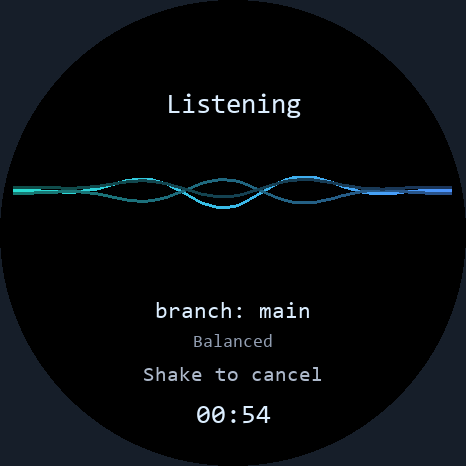
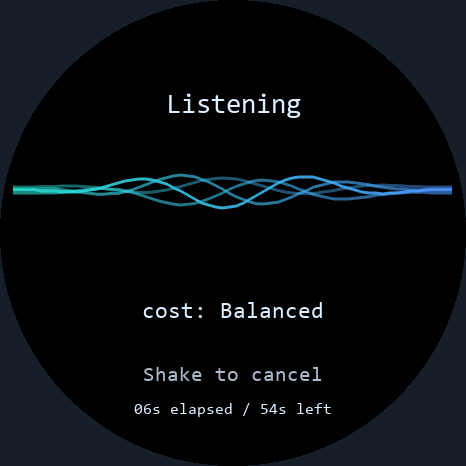
Compose four antialiased voice waves and cycle complete session identity

diff --git a/components/CODY_companion/src/runtime/CODY_companion.cpp b/components/CODY_companion/src/runtime/CODY_companion.cpp
@@ -31,6 +31,7 @@
 #include <atomic>
 #include <cstdint>
 #include <cstdio>
+#include <cstdlib>
 #include <cstring>
 #include <iterator>
 #include <limits>
@@ -2680,8 +2681,21 @@ esp_err_t draw_branding_rows(uint16_t frame_index)
 // Display-owned bounded projection and prepared glyphs never enter nested frame stacks.
 LUNASHELL::VoiceSnapshot s_voice_input_view{};
 CODY2D::TextLine s_voice_title{}, s_voice_shake{}, s_voice_timer{};
-char s_voice_countdown[6]{};
-CODY::ActivityIdentityState s_voice_identity{};
+char s_voice_countdown[32]{};
+enum class VoiceCaptionKind : uint8_t { Model, Cost, Effort, Branch, Project };
+struct VoiceCaption {
+    VoiceCaptionKind kind;
+    char text[144]{};
+    CODY2D::TextLine line{};
+    uint16_t length = 0;
+    uint16_t width = 0;
+    uint16_t color = 0xF7BE;
+};
+VoiceCaption s_voice_captions[] = {{VoiceCaptionKind::Model}, {VoiceCaptionKind::Cost},
+    {VoiceCaptionKind::Effort}, {VoiceCaptionKind::Branch}, {VoiceCaptionKind::Project}};
+int64_t s_voice_carousel_started_us = 0;
+CODY2D::TextLine s_voice_carousel_line{};
+static_assert(sizeof(s_voice_captions) <= 1280, "Voice carousel storage belongs to the display owner, never its frame stack");
 LUNASHELL::CodexTechnicalObservation s_voice_metadata{};
 CODY::ResponseInputs s_voice_motion{};
 bool s_voice_view_visible = false;
@@ -2708,9 +2722,15 @@ esp_err_t prepare_voice_caption(const char *text, int16_t top, uint16_t color, C
 {
     const auto &font = CODY::SceneData::body_font;
     const uint16_t length = static_cast<uint16_t>(std::strlen(text));
-    if (length == 0 || font.height > 28) return ESP_ERR_INVALID_SIZE;
+    if (length == 0 || font.height > 28) {
+        ESP_LOGE(kTag, "Voice caption rejected: length=%u font_height=%u", unsigned(length), unsigned(font.height));
+        return ESP_ERR_INVALID_SIZE;
+    }
     const uint16_t width = static_cast<uint16_t>((length - 1U) * font.advance + font.width);
-    if (width > 320) return ESP_ERR_INVALID_SIZE;
+    if (width > 320) {
+        ESP_LOGE(kTag, "Voice caption width rejected: width=%u", unsigned(width));
+        return ESP_ERR_INVALID_SIZE;
+    }
     return CODY2D::prepare_text_line(font, {text, length},
         {static_cast<int16_t>((466 - width) / 2), top}, color, line);
 }
@@ -2721,24 +2741,40 @@ esp_err_t prepare_voice_caption(const char *text, int16_t top, uint16_t color, C
 // Exception: Returns the original native raster failure.
 esp_err_t draw_voice_ribbon(CODY2D::Surface strip, uint16_t row, size_t pose)
 {
+    const esp_err_t surface_error = CODY2D::validate_surface(strip);
+    if (surface_error != ESP_OK) return surface_error;
+    if (strip.width != kPanelWidth || row + strip.height > kPanelHeight || pose >= CODY::kVoiceWaveformFrameCount) {
+        ESP_LOGE(kTag, "Voice ribbon bounds rejected: width=%u row=%u height=%u pose=%u",
+            unsigned(strip.width), unsigned(row), unsigned(strip.height), unsigned(pose));
+        return ESP_ERR_INVALID_ARG;
+    }
     if (row >= 210 || row + strip.height <= 170) return ESP_OK;
     for (uint16_t x = 13; x < 453; ++x) {
         const uint32_t position = (x - 13U) * 63U;
         const size_t first = std::min<size_t>(62, position / 439U);
         const int fraction = static_cast<int>(position - first * 439U);
-        const int value = CODY::kVoiceWaveform[pose][first] +
-            (CODY::kVoiceWaveform[pose][first + 1] - CODY::kVoiceWaveform[pose][first]) * fraction / 439;
         const uint16_t color = CODY2D::blend_rgb565(0x9B1F, 0x2E7F,
             static_cast<uint8_t>((x - 13U) * 255U / 439U));
-        for (int layer = 0; layer < 3; ++layer) {
-            const int offset = layer == 0 ? value : layer == 1 ? -value * 3 / 4 + 3 : value / 2 - 3;
-            const int top = std::max<int>(190 + offset - 1, row);
-            const int bottom = std::min<int>(190 + offset + 2, row + strip.height);
-            if (top >= bottom) continue;
-            const uint16_t foreground = layer == 0 ? color : CODY2D::fade_rgb565_to_black(color, layer == 1 ? 150 : 90);
-            const esp_err_t error = CODY2D::fill_rect(strip, {x, static_cast<uint16_t>(top - row),
-                1, static_cast<uint16_t>(bottom - top)}, foreground);
-            if (error != ESP_OK) return error;
+        constexpr int scale[] = {256, 192, 128, 224};
+        constexpr int shift[] = {0, 3, -3, -1};
+        constexpr uint8_t strength[] = {230, 155, 120, 170};
+        for (size_t layer = 0; layer < 4; ++layer) {
+            const size_t wave_pose = (pose + layer * 4) % CODY::kVoiceWaveformFrameCount;
+            // Q8 interpolation gives subpixel edge coverage without floats, trigonometry or supersampled buffers.
+            const int value_q8 = int(CODY::kVoiceWaveform[wave_pose][first]) * 256 +
+                (CODY::kVoiceWaveform[wave_pose][first + 1] - CODY::kVoiceWaveform[wave_pose][first]) * fraction * 256 / 439;
+            const int center_q8 = (190 + shift[layer]) * 256 + value_q8 * scale[layer] / 256;
+            for (uint16_t offset = 0; offset < strip.height; ++offset) {
+                const int y = row + offset;
+                if (y < 170 || y >= 210) continue;
+                const int coverage = std::clamp(512 - std::abs(y * 256 + 128 - center_q8), 0, 256);
+                if (coverage == 0) continue;
+                const size_t pixel = offset * strip.stride + x;
+                const uint16_t background = CODY2D::rgb565_stored_to_native(strip.pixels[pixel], strip.byte_order);
+                const uint8_t opacity = static_cast<uint8_t>(coverage * strength[layer] / 256);
+                const uint16_t blended = CODY2D::blend_rgb565(color, background, opacity);
+                strip.pixels[pixel] = CODY2D::rgb565_native_to_stored(blended, strip.byte_order);
+            }
         }
     }
     return ESP_OK;
@@ -2756,20 +2792,56 @@ esp_err_t prepare_voice_identity()
         activity.data_valid && !activity.data_stale;
     const char *project = current ? activity.project : "";
     const char *branch = current ? activity.branch : "";
-    const char *previous_branch = s_voice_identity.branch[0] == '\0' ? "" : s_voice_identity.branch + 8;
     const int64_t now = esp_timer_get_time();
-    if (std::strcmp(s_voice_identity.project, project) != 0 || std::strcmp(previous_branch, branch) != 0 ||
-        !s_voice_view_visible || s_voice_view_started_at_us != s_voice_input_view.input.started_at_us) {
-        error = CODY::prepare_activity_identity(s_voice_identity, CODY::SceneData::body_font, project, branch, now);
-        if (error != ESP_OK) return error;
-    }
     const auto model_cost = CODY::observed_model_cost(link, s_voice_metadata.technical);
-    bool changed = false;
-    error = CODY::set_activity_model_cost(s_voice_identity, CODY::SceneData::body_font,
-        model_cost.model, model_cost.band, now, changed);
-    if (error != ESP_OK) return error;
-    // The voice countdown has its own meaning; no work-duration estimate is substituted.
-    return CODY::advance_activity_identity(s_voice_identity, CODY::SceneData::body_font, now, false, -1, changed);
+    const auto &technical = s_voice_metadata.technical;
+    const bool technical_current = current && technical.data_valid && !technical.data_stale && technical.chat_id[0] != '\0' &&
+        technical.revision == activity.revision && std::strcmp(technical.chat_id, activity.chat_id) == 0;
+    const char *effort = technical_current && technical.effort_valid && !technical.effort_stale ? technical.effort : "";
+    bool changed = !s_voice_view_visible || s_voice_view_started_at_us != s_voice_input_view.input.started_at_us;
+    size_t count = 0;
+    int64_t total_us = 0;
+    for (auto &caption : s_voice_captions) {
+        const char *source = "";
+        const char *prefix = "";
+        switch (caption.kind) {
+        case VoiceCaptionKind::Model: source = model_cost.model; prefix = "model: "; break;
+        case VoiceCaptionKind::Cost:
+            source = model_cost.band == LUNASHELL::CodexCostBand::Unknown ? "" : CODY::cost_band_text(model_cost.band);
+            prefix = "cost: "; break;
+        case VoiceCaptionKind::Effort: source = effort; prefix = "effort: "; break;
+        case VoiceCaptionKind::Branch: source = branch; prefix = "branch: "; break;
+        case VoiceCaptionKind::Project: source = project; prefix = ""; break;
+        }
+        const char *old_source = caption.length == 0 ? "" : caption.text + std::strlen(prefix);
+        changed = changed || std::strcmp(old_source, source) != 0;
+        caption.color = caption.kind == VoiceCaptionKind::Cost ? CODY::cost_band_color(model_cost.band) : 0xF7BE;
+        error = CODY::prepare_activity_identity_caption(CODY::SceneData::body_font, source, prefix,
+            caption.text, caption.line, caption.color, caption.length, caption.width, 128);
+        if (error != ESP_OK) return error;
+        if (caption.length == 0) continue;
+        ++count;
+        // Long labels finish their measured scroll before the fade advances.
+        const uint16_t overflow = caption.width > 320 ? caption.width - 320 : 0;
+        total_us += 3500000 + int64_t(overflow) * 35000 + 500000;
+    }
+    if (changed || s_voice_carousel_started_us == 0) s_voice_carousel_started_us = now;
+    s_voice_carousel_line = {};
+    if (count == 0) return ESP_OK;
+    int64_t elapsed = (now - s_voice_carousel_started_us) % total_us;
+    for (auto &caption : s_voice_captions) {
+        if (caption.length == 0) continue;
+        const uint16_t overflow = caption.width > 320 ? caption.width - 320 : 0;
+        const int64_t hold = 3500000 + int64_t(overflow) * 35000;
+        if (elapsed >= hold + 500000) { elapsed -= hold + 500000; continue; }
+        uint8_t opacity = 255;
+        if (count > 1 && elapsed < 200000) opacity = static_cast<uint8_t>(elapsed * 255 / 200000);
+        if (count > 1 && elapsed > hold) opacity = static_cast<uint8_t>(std::max<int64_t>(0, 200000 - (elapsed - hold)) * 255 / 200000);
+        const uint16_t offset = static_cast<uint16_t>(std::min<int64_t>(overflow, std::max<int64_t>(0, elapsed - 1500000) / 35000));
+        return CODY::prepare_activity_identity_window(CODY::SceneData::body_font, caption.text,
+            caption.length, caption.width, offset, CODY2D::fade_rgb565_to_black(caption.color, opacity), s_voice_carousel_line);
+    }
+    return ESP_OK;
 }
 
 // No parameters: priority input uses a small ribbon, genuine identity carousel and countdown.
@@ -2787,10 +2859,11 @@ esp_err_t draw_voice_input_rows()
     error = prepare_voice_caption("Shake to cancel", 365, 0xAD75, s_voice_shake);
     if (error != ESP_OK) return error;
     const int64_t elapsed = std::max<int64_t>(0, esp_timer_get_time() - s_voice_input_view.input.started_at_us);
-    const uint32_t remaining = phase == Phase::Listening ? static_cast<uint32_t>(std::max<int64_t>(0, 60000000 - elapsed) + 999999) / 1000000U : 0;
-    const int count = std::snprintf(s_voice_countdown, sizeof(s_voice_countdown), "%02u:%02u",
-        static_cast<unsigned>(remaining / 60U), static_cast<unsigned>(remaining % 60U));
-    if (count != 5) return ESP_ERR_INVALID_SIZE;
+    const uint32_t used = std::min<uint32_t>(60, phase == Phase::Listening ?
+        static_cast<uint32_t>(elapsed / 1000000) : s_voice_input_view.input.captured_samples / 16000U);
+    const int count = std::snprintf(s_voice_countdown, sizeof(s_voice_countdown), "%02us elapsed / %02us left",
+        static_cast<unsigned>(used), static_cast<unsigned>(60U - used));
+    if (count <= 0 || count >= int(sizeof(s_voice_countdown))) return ESP_ERR_INVALID_SIZE;
     error = prepare_voice_caption(s_voice_countdown, 402, 0xF7BE, s_voice_timer);
     if (error != ESP_OK) return error;
     error = prepare_voice_identity();
@@ -2809,7 +2882,7 @@ esp_err_t draw_voice_input_rows()
     const size_t pose = static_cast<size_t>((esp_timer_get_time() / 125000) % CODY::kVoiceWaveformFrameCount);
     for (uint16_t row = 0; row < kPanelHeight;) {
         // First retirement clears the old route. Later frames transfer only the changing bands.
-        if (!full && !((row >= 170 && row < 210) || (row >= 300 && row < 358) || (row >= 402 && row < 430))) {
+        if (!full && !((row >= 170 && row < 210) || (row >= 300 && row < 328) || (row >= 402 && row < 430))) {
             row += 2;
             continue;
         }
@@ -2828,7 +2901,18 @@ esp_err_t draw_voice_input_rows()
         error = CODY2D::clear(strip, 0);
         if (error == ESP_OK) error = draw_voice_ribbon(strip, row, pose);
         if (error == ESP_OK) error = CODY2D::draw_text_rows(s_voice_title, s_voice_title.text.length, strip, row, 0);
-        if (error == ESP_OK) error = CODY::draw_activity_identity(s_voice_identity, strip, row, 0);
+        if (error == ESP_OK && s_voice_carousel_line.valid) {
+            const uint16_t top = std::max<uint16_t>(row, 300);
+            const uint16_t bottom = std::min<uint16_t>(row + rows, 328);
+            if (top < bottom) {
+                CODY2D::Surface clipped = strip;
+                clipped.pixels += (top - row) * strip.stride + 73;
+                clipped.pixel_capacity -= (top - row) * strip.stride + 73;
+                clipped.width = 320;
+                clipped.height = bottom - top;
+                error = CODY2D::draw_text_rows(s_voice_carousel_line, s_voice_carousel_line.text.length, clipped, top, 73);
+            }
+        }
         if (error == ESP_OK && cancellable) error = CODY2D::draw_text_rows(s_voice_shake, s_voice_shake.text.length, strip, row, 0);
         if (error == ESP_OK) error = CODY2D::draw_text_rows(s_voice_timer, s_voice_timer.text.length, strip, row, 0);
         if (error == ESP_OK) error = LUNASHELL_display_frame_submit_rgb565(0, row, 466, row + rows, storage);

diff --git a/scripts/generators/generate_cody_connection_atlas.py b/scripts/generators/generate_cody_connection_atlas.py
@@ -488,7 +488,7 @@ def technical_pdf(start_page):
         ),(153,262,WIDTH-84-415))
     add("A ten-second ring tolerates a stalled PC","160000 samples x 2 bytes = 320000 bytes PSRAM; metadata and transport buffers are additional",
         ("STAGE","DEVICE / PC OWNER","BOUNDARY"),(
-            ("Capture and display","Existing AFE enhanced mono 16 kHz PCM and VAD. Wake word or double tap requests Listening; capture begins with the next real AFE block, without wake-word cache or preroll.","Hide Cody. Show an illustrative 40-pixel synthetic wave across the available upper chord, a bottom countdown and the existing central fade carousel of genuine project/model/cost/branch data. No measured-waveform claim."),
+            ("Capture and display","Existing AFE enhanced mono 16 kHz PCM and VAD. Wake word or double tap requests Listening; capture begins with the next real AFE block, without wake-word cache or preroll.","Hide Cody. Synthetic wave: four phase-shifted colored curves in a 440 x 40 band; 16 poses at 8 FPS, Q8 antialiasing and alpha overlaps, no runtime trig or voice-amplitude tracking. One row cycles model -> cost band -> thinking effort -> branch -> project, skipping unavailable values with existing fades/scrolling. No fixed cost pill. Below: Shake to cancel, then elapsed and remaining seconds (60-second limit)."),
             ("Ring and sender","Every PCM block remains until a valid authenticated ACK arrives. One 480-sample, 960-byte DATA packet is in flight.","Ten seconds is the stalled-link budget. Overflow is an explicit failure; words are never overwritten. No SD or flash fallback. Capture ends after 1.2 seconds of speech silence or at the 60-second limit."),
             ("PC receiver / persistence","Freeze the exact genuine followed thread and turn at START; reject out-of-order PCM. Write a completed 16 kHz, 16-bit mono WAV under private runtime artifacts.","UDP reception and native input have separate workers. Limits: 4 captures/jobs, 64 records, 60 seconds of PCM. The 64 MiB/1024 WAV quota rejects new storage."),
             ("Pause / deliberate shake","A deliberate shake cancels voice capture; there is no voice Cancel button. Microphone pause stops active capture and transport. If END may have left, the canonical phase is Unconfirmed; otherwise Cancelled.","No automatic wake or restart. Wire CANCEL cannot revoke native submission already in flight; its eventual actual outcome remains visible."),
@@ -599,7 +599,7 @@ def main(argv=None):
         RevisionRecord("2026-10-12","Change","One canonical CCP communication reference",(
         "Unify the existing CCP Connection Atlas, former Service Atlas and legacy Codex Connection Atlas into coherent system, commissioning, wire/API, audio and evidence chapters. Keep the separate four-page A5 pairing quickstart as the nontechnical user guide. Preserve earlier meaningful decisions, original page/screen crosswalks and dated Errata, Addendum, Change and Security records.",
         "Current packet fields, order and ceilings; hook/technical projections; clock/name/debug/reset; MCP calls; and resource budgets are source-derived. Metadata remains authenticated plaintext. Audio is a separate AES-256-GCM source increment and does not strengthen six-character commissioning.",
-        "Voice documentation follows source version 0.6.5 and the 12 October UI decision: enhanced PCM from the next real AFE block after wake detection, a ten-second PSRAM ring, authenticated UDP 42119, frozen native thread/turn identity and localAudio input. The capture limit is 60 seconds; deliberate shake cancels, with no voice Cancel button. Cody is hidden behind the synthetic wave, countdown and genuine-data carousel. Native endpoint attachment, account/backend, dependencies, installation, cryptographic wire checks, device stack headroom and physical capture/delivery remain unverified. Whole native deadline: 15 seconds; uncertainty never becomes success.",),
+        "Voice documentation follows source version 0.6.5 and the 12 October UI decision: enhanced PCM from the next real AFE block after wake detection, a ten-second PSRAM ring, authenticated UDP 42119, frozen native thread/turn identity and localAudio input. Capture lasts at most 60 seconds; deliberate shake cancels without a voice Cancel button. Hide Cody. The upper synthetic wave is 40 pixels high. One central row cycles model, cost band, thinking effort, branch, then project; unavailable values are skipped using the existing fade/scroll style. There is no fixed cost pill. Below the row, show Shake to cancel, then both elapsed and remaining seconds. Native endpoint attachment, account/backend, dependencies, installation, cryptographic wire checks, device stack headroom and physical capture/delivery remain unverified. Whole native deadline: 15 seconds; uncertainty never becomes success.",),
         "All three technical source PDFs; A5 quickstart context; current CCP1.md, ccp_voice_input.py and LUNASHELL_voice_input.cpp",
         "PDF generation, rendering and visual review only. No tests, scans, configure/build/size, simulator, flash, hardware or native-input execution.")))
     register = compact_history(history,first_register_page+1)

diff --git a/scripts/generators/generate_cody_voice_proposals.py b/scripts/generators/generate_cody_voice_proposals.py
@@ -27,32 +27,37 @@ def centered(surface, label, y, size, color):
     surface.text(((466 - width) / 2, y), label, font=face, fill=color)
 
 # index: Stable proposal number.
+# pose: Optional independent animation pose, preserving the surrounding proposal.
 # Raises OSError for artifact publication failures.
-def proposal(index):
+def proposal(index, pose=None):
     image = Image.new('RGB', (466, 466), '#161e29')
     draw = ImageDraw.Draw(image)
     draw.ellipse((0, 0, 465, 465), fill='black')
     centered(draw, 'Listening', 92, 28, '#dceeff')
     palette = [('#28c8ff', '#9264ff'), ('#28e0d1', '#4c94ff'), ('#6ebeff', '#f090e0'),
                ('#299fff', '#d95fff'), ('#39d8ff', '#848cff')][index % 5]
-    data = samples(index)
-    for layer in range(3):
+    for layer in range(4):
+        data = samples(((index if pose is None else pose) + layer * 4) % 16)
         for x in range(13, 452):
             position = (x - 13) * 63 / 439
             first = min(62, int(position))
             value = data[first] + (data[first + 1] - data[first]) * (position - first)
-            value = value if layer == 0 else -value * .75 + 3 if layer == 1 else value * .55 - 3
+            value = value * (1, .75, .5, .875)[layer] + (0, 3, -3, -1)[layer]
             color_a = tuple(int(palette[0][part:part + 2], 16) for part in (1, 3, 5))
             color_b = tuple(int(palette[1][part:part + 2], 16) for part in (1, 3, 5))
             mix = (x - 13) / 439
-            shade = 1 if layer == 0 else .55 if layer == 1 else .35
-            color = tuple(round((a * (1 - mix) + b * mix) * shade) for a, b in zip(color_a, color_b))
-            draw.line((x, 190 + value - 1, x, 190 + value + 1), fill=color)
-    labels = ['Cody', 'branch: main', 'model: gpt-6.1', 'Cody', 'branch: codex/voice']
+            color = tuple(round(a * (1 - mix) + b * mix) for a, b in zip(color_a, color_b))
+            center = 190 + value
+            for y in range(max(170, math.floor(center - 2)), min(210, math.ceil(center + 2))):
+                coverage = max(0, min(1, 2 - abs(y + .5 - center)))
+                opacity = coverage * (230, 155, 120, 170)[layer] / 255
+                background = image.getpixel((x, y))
+                image.putpixel((x, y), tuple(round(a * opacity + b * (1 - opacity)) for a, b in zip(color, background)))
+    labels = ['model: gpt-6.1', 'cost: Balanced', 'effort: high', 'branch: main', 'Cody']
     centered(draw, labels[index % 5], 300, 23, '#dceeff')
-    centered(draw, 'Balanced', 333, 18, '#929eb2')
     centered(draw, 'Shake to cancel', 365, 21, '#adb9cb')
-    centered(draw, f'00:{max(0, 59 - index * 5):02}', 402, 27, '#dceeff')
+    used = 1 + index * 5
+    centered(draw, f'{used:02}s elapsed / {60 - used:02}s left', 402, 16, '#dceeff')
     return image
 
 # No parameters: publishes proposal images and a small immutable waveform table.
@@ -77,6 +82,9 @@ def main():
         sheet.paste(image, (x, y))
         draw.text((x + 8, y + 476), f'{index + 1:02} / concept', font=font(20), fill='#18283e')
     sheet.save(OUTPUT / 'contact-sheet.png')
+    animation = [proposal(0, pose=frame) for frame in range(16)]
+    animation[0].save(OUTPUT / 'voice-animation.gif', save_all=True, append_images=animation[1:],
+                      duration=125, loop=0, disposal=2)
     (OUTPUT / 'README.md').write_text('# Voice screen proposals\n\nTen synthetic design studies, not device captures. '
         'Project/model/branch/cost captions are illustrative and never enter firmware snapshots. '
         'The firmware shares only the sixteen immutable waveform poses. The model price is a catalog '

diff --git a/docs/cody/runtime.md b/docs/cody/runtime.md
@@ -487,11 +487,14 @@ of an immediately following command still need physical observation.
 Voice input has presentation priority while retaining the interrupted route and
 its real question deadlines. The character, geometry evaluation and normal scene
 animation are suspended behind a synthetic ribbon at 8 FPS: sixteen immutable
-poses in a 440 x 40 logical-pixel band. After the first full retirement, only the
-ribbon, identity/cost rows and countdown bands transfer again. The existing
-measured fade carousel shows current project, branch and model with its catalog
-cost band; unavailable fields disappear. No numeric price or bill is invented.
-The bottom countdown starts at 01:00. Deliberate shake is the only cancellation
+poses in a 440 x 40 logical-pixel band. Four phase-shifted curves use lightweight
+Q8 edge coverage and alpha composition for smooth overlaps; there is no runtime
+trigonometry, 3D rendering or microphone-amplitude following. After the first full retirement, only the
+ribbon, single identity row and timer bands transfer again. One measured,
+fading/scrolling row cycles model, catalog cost band, thinking effort, branch,
+then project; unavailable fields disappear. No numeric price or bill is invented.
+The bottom timer shows elapsed and remaining seconds within the sixty-second
+budget, starting at `00s elapsed / 60s left`. Deliberate shake is the only cancellation
 gesture; there is no voice button or touch action. It cannot revoke a turn
 already accepted by Codex. End of
 speech uses 1.2 seconds of actual VAD silence after speech, with an eight-second

diff --git a/done.md b/done.md
@@ -18,10 +18,12 @@ private local diagnostics, not publication artifacts.
 - Bounded capture and host PCM to sixty seconds / 1,920,000 bytes, retaining the
   independent ten-second PSRAM acknowledgement ring. Removed the voice Cancel
   capsule and touch action: the retired voice view owns deliberate shake. Added
-  an actual 01:00 countdown, current project/branch/model fade carousel and catalog
-  cost band without invented prices. The character remains hidden.
+  elapsed/remaining seconds and one measured fade/scroll carousel ordered model,
+  catalog cost band, thinking effort, branch, project. Unavailable captions disappear
+  and no price is invented. The character remains hidden.
 - Added sixteen synthetic waveform poses (1,024 bytes), a 440 x 40 logical-pixel
-  ribbon and partial changing-band transfers after the first full retirement.
+  ribbon with four phase-shifted curves, lightweight Q8 anti-aliasing and alpha
+  composition, plus partial changing-band transfers after the first retirement.
   Ten code-authored visual proposals share the waveform data; their metadata and
   fonts are illustrative, not device captures or simulator evidence. Source
   review only: no tests, builds, size checks, simulator run or device flash.
